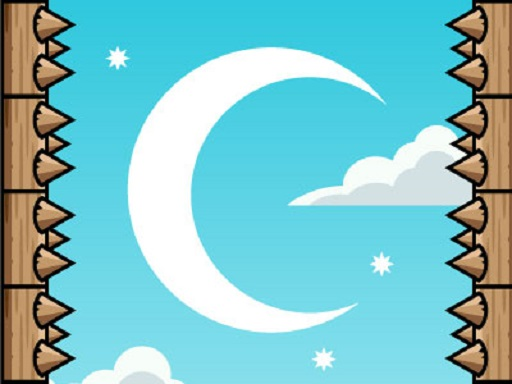
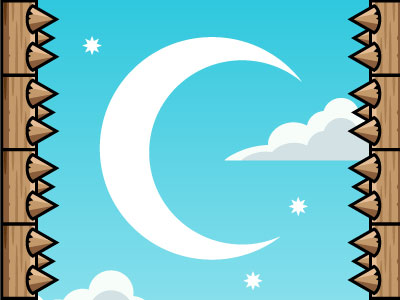
back ground changes

diff --git a/js/runtime/background.js b/js/runtime/background.js
@@ -4,8 +4,8 @@ const screenWidth  = window.innerWidth
 const screenHeight = window.innerHeight
 
 const BG_IMG_SRC   = 'images/bg.jpg'
-const BG_WIDTH     = 512
-const BG_HEIGHT    = 512
+const BG_WIDTH     = 400
+const BG_HEIGHT    = 300
 
 /**
  * 游戏背景类
